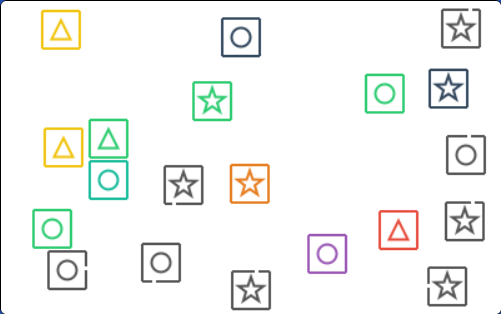
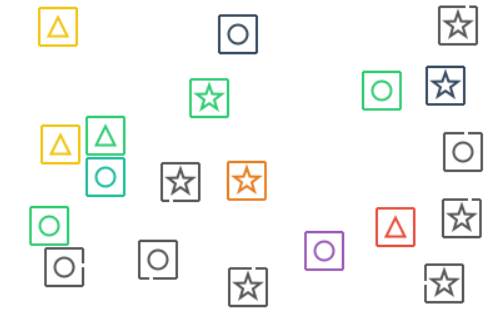
~6,2-~4,2-~0,4

diff --git a/src/pages/home.js b/src/pages/home.js
@@ -10,6 +10,7 @@ import dr from "../image/dr.gif"
 import Navi from '../navi';
 import founder from "../image/founder.png"
 import insta from "../image/insta.png"
+import Img1 from "../image/m1.png"
 
 import { auth, provider, signInWithPopup } from './firebase';
 
@@ -48,9 +49,18 @@ const Home = () => {
   const [user, setUser] = useState(null);
   const [data, setData] = useState([])
   const [rate_data, setRate_data] = useState([])
-  const [show, setShow] = useState([])
+  const [show, setShow] = useState([]);
+  const [index, setIndex] = useState(0);
 
   const email = localStorage.getItem('email');
+
+  const slides = [
+    {
+      img: Img1,
+      text: "How many broken boxes have stars?",
+    },
+
+  ];
 
   auth.onAuthStateChanged((user) => {
     if (user) {
@@ -74,6 +84,14 @@ const Home = () => {
     get_review()
     get_my_review()
   }, [])
+
+  useEffect(() => {
+    const interval = setInterval(() => {
+      setIndex((prev) => (prev + 1) % slides.length);
+    }, 5000);
+
+    return () => clearInterval(interval);
+  }, []);
 
 
   const handleGoogleSignup = () => {
@@ -278,6 +296,21 @@ async function get_my_review() {
         </div>
 
         <div className='Home-cnt-02'>
+
+          <div className='Home-cnt-02-sub-01'>
+            <div className='Home-cnt-02-sub-01_dr_mai'>
+              <div className='Home-cnt-02-sub-01_dr_mai_text'>Q. {slides[index].text}</div>
+              <img src={slides[index].img} alt="slider" />
+              
+             
+              <div className='Home-cnt-02-sub-01_dr_main_post'>
+                Puzzle Modules
+              </div>
+            </div>
+            
+          </div>
+
+
           {[
             { img: t1, text: 'Think it. Prove it. Win it.' },
             { img: t2, text: 'Knowledge pays off, Literally. win rewards now! ' },

diff --git a/src/keer.css b/src/keer.css
@@ -1336,6 +1336,29 @@
     object-position: center;
 }
 
+.Home-cnt-02-sub-01_dr_mai {
+    width: 100%;
+    height: 100%;
+    border: 1px solid none;
+    padding: auto;
+    align-content: center;
+    justify-content: center;
+    display: flex;
+    flex-wrap: wrap;
+    border-radius: 10px;
+    /* overflow: hidden; */
+    position: relative;
+    background-color: rgb(247, 245, 245);
+}
+
+.Home-cnt-02-sub-01_dr_mai img {
+    width: 100%;
+    height: auto;
+    object-fit: fill;
+}
+
+
+
 .Home-cnt-02-sub-01_dr_main_sub_cnt {
     width: 90%;
     height: auto;
@@ -4179,4 +4202,12 @@
     font-weight: 600;
     text-align: center;
     margin: auto;
+}
+
+.Home-cnt-02-sub-01_dr_mai_text{
+    font-size: 1.8rem;
+    color: rgb(20, 20, 20);
+    font-family: var(--ff1);
+    font-weight: 600;
+    padding: 5px;
 }
